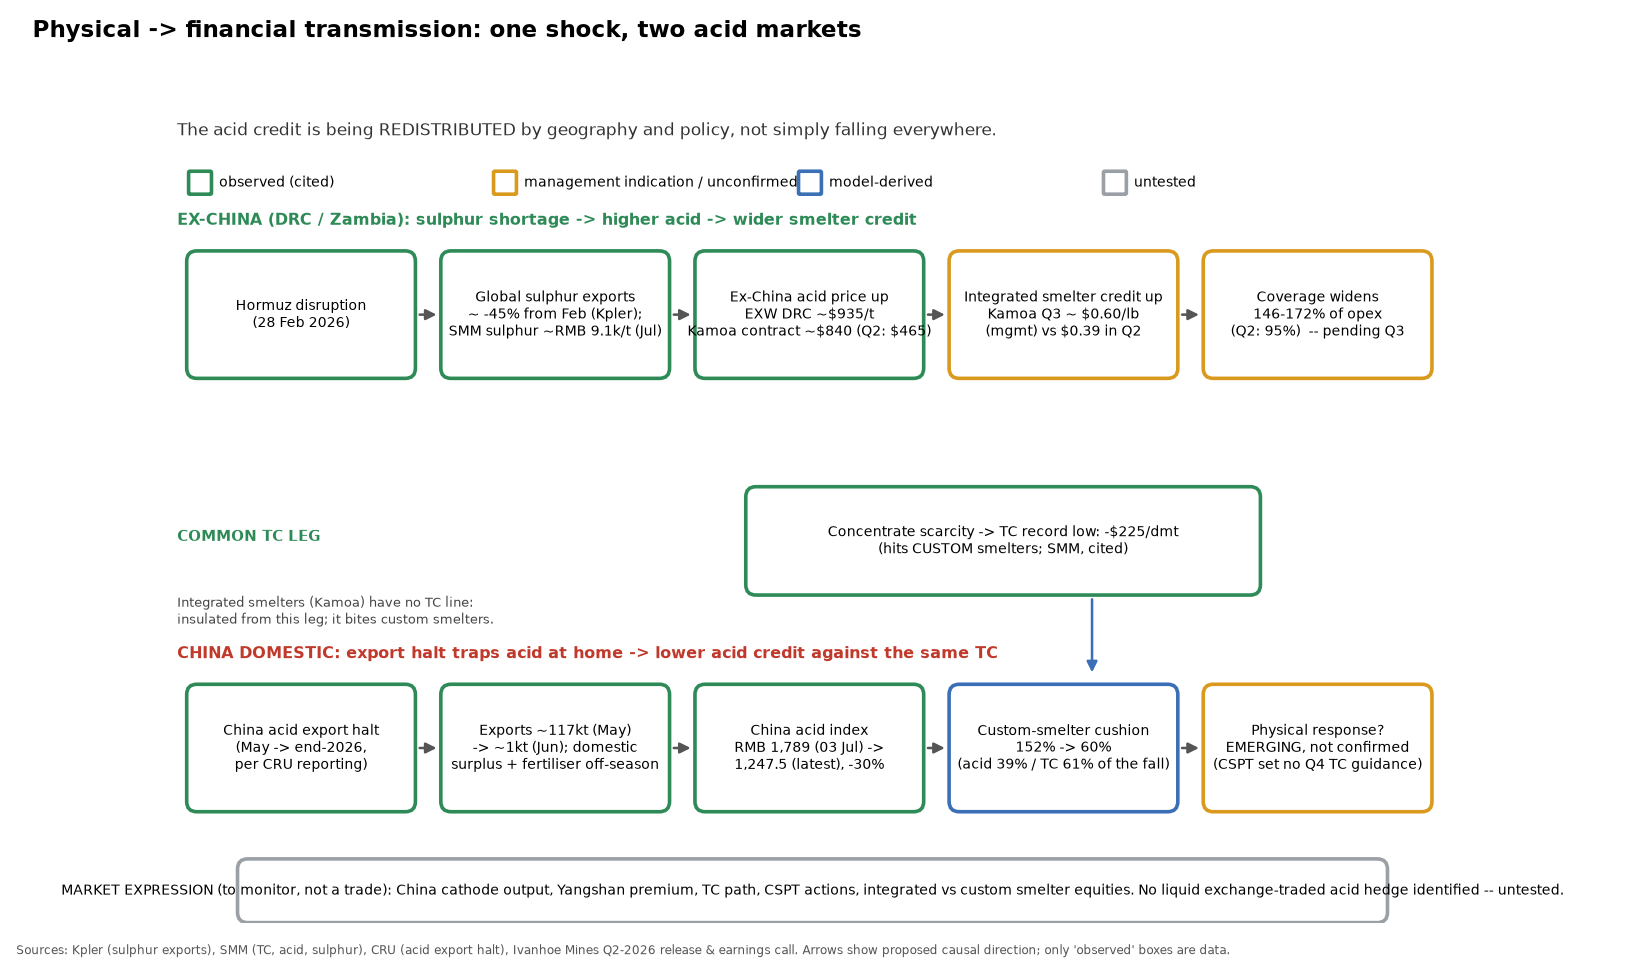
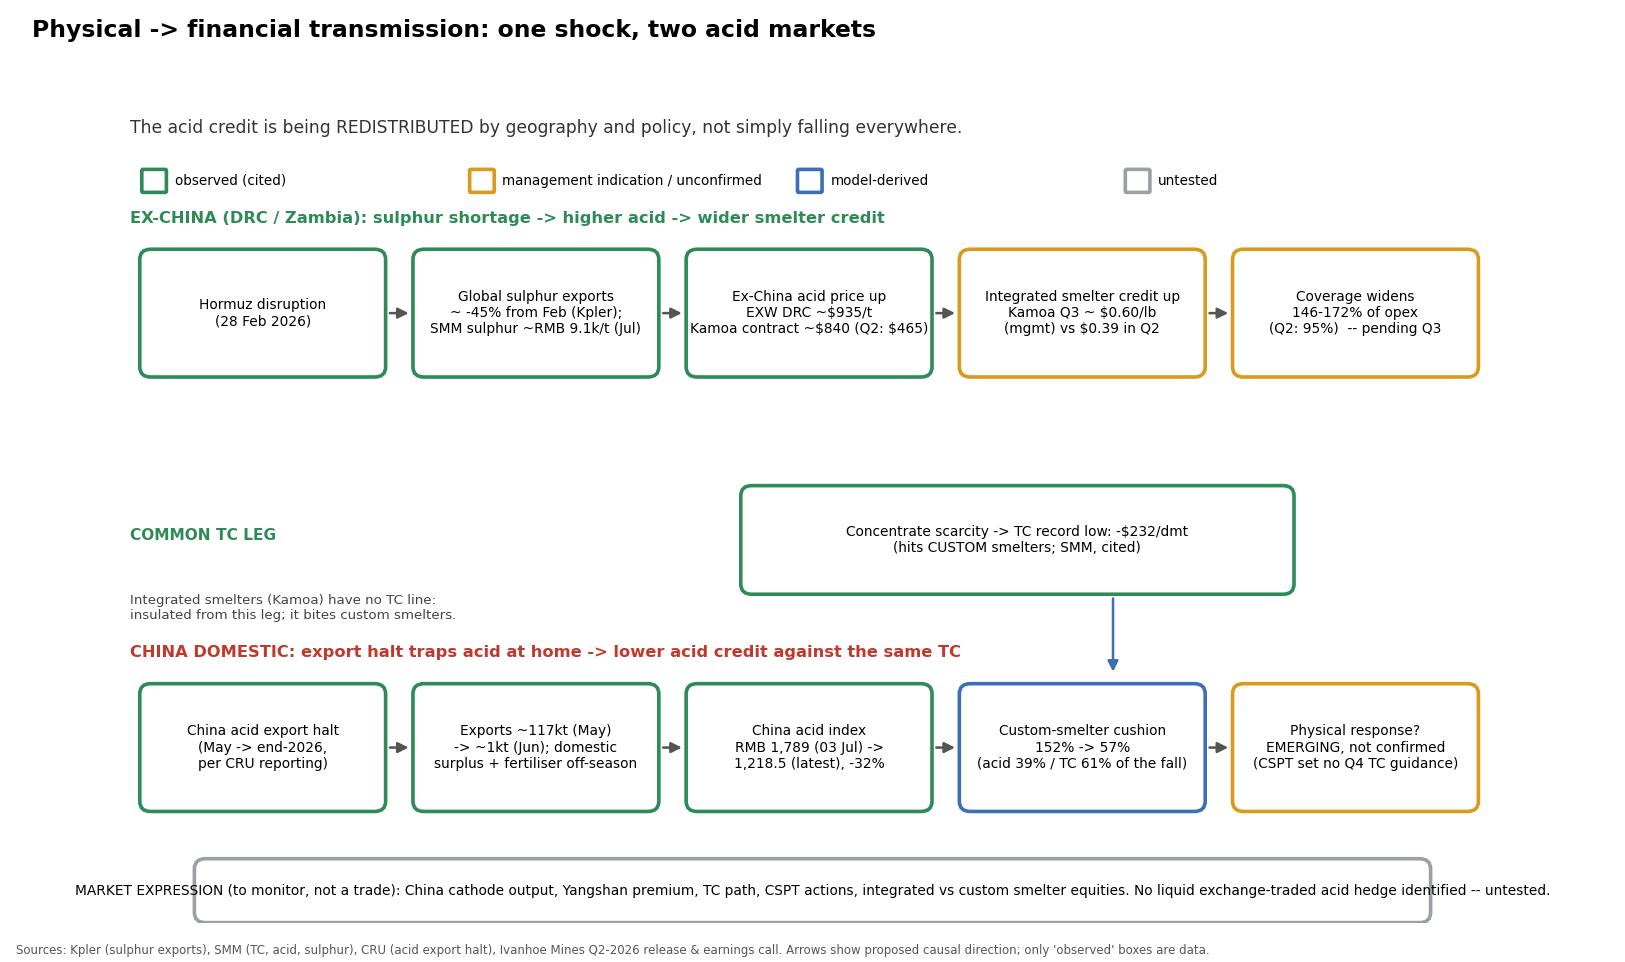
Add 30 Sep TC/acid prints; recompute cushion

diff --git a/copper_acid_data.py b/copper_acid_data.py
@@ -141,6 +141,20 @@ CU_TC_WEEKLY_RAW = [
      "all is itself new information: it signals the smelter side and "
      "miners/traders could not agree on a floor, not that -$224.53 is "
      "necessarily durable. Link: https://news.metal.com/newscontent/104133941-cspt-meeting-decides-not-to-set-q4-copper-concentrate-tc-guidance-price-imported-copper-concentrate-trading-activity-declines-smm-copper-concentrate-spot-weekly-review"),
+    ("2026-09-30", -231.68, "cited",
+     "SMM Imported Copper Concentrate Index (weekly), -$231.68/dmt, down "
+     "$7.15/dmt from -$224.53/dmt 'in the previous period' -- another new "
+     "record low (news.metal.com, 'Chile Mine Labor Risks Heat Up, "
+     "Imported Copper Concentrate TCs Continue to Fall' -- SMM Copper "
+     "Concentrate Spot Weekly Review, 2026-09-30). Added 2026-10-04. "
+     "Dated as SMM reports it: a Wednesday, again off the usual Friday "
+     "cycle, plausibly to clear the desk ahead of China's Oct National "
+     "Day holiday. Falls 5 days after the 2026-09-25 grid Friday and 2 "
+     "days before 2026-10-02; under `_interpolate_to_grid()`'s "
+     "backward-only merge_asof (3-day tolerance), this citation is NOT "
+     "within reach of 2026-09-25 (it postdates that Friday) and so "
+     "cannot overwrite it -- it snaps FORWARD onto the 2026-10-02 grid "
+     "Friday. Link: https://news.metal.com/newscontent/104142380-chile-mine-labor-risks-heat-up-imported-copper-concentrate-tcs-continue-to-fall-smm-copper-concentrate-spot-weekly-review"),
 ]
 
 # ---------------------------------------------------------------------------
@@ -232,6 +246,17 @@ CU_ACID_WEEKLY_RAW = [
      "grid-charted exactly as the 2026-09-24 TC print above -- see that "
      "row's note. Added 2026-09-25; most recent print as of this "
      "project's current data-extension pass. Link: https://news.metal.com/newscontent/104133833-waiting-for-policies-and-winter-stockpiling-the-sub-thousand-wave-spreads-to-central-china-smm-sulphuric-acid-weekly-review"),
+    ("2026-09-30", 1218.5, "cited",
+     "SMM China Copper Smelting Acid Index, RMB 1,218.5/t, down RMB "
+     "29/t or 2.3% from RMB 1,247.5/t the previous Friday -- the "
+     "THIRTEENTH consecutive weekly decline since 10 July, but a sharp "
+     "narrowing from the prior week's 7.7% drop (news.metal.com, "
+     "'Pre-holiday Fluctuations Converge, Price Center Shifts to "
+     "October', SMM Sulphuric Acid Weekly Review, 2026-09-30). Added "
+     "2026-10-04; most recent print as of this pass. Dated and "
+     "grid-charted exactly as the 2026-09-30 TC print above -- see that "
+     "row's note on the Wednesday publish date and the forward snap to "
+     "the 2026-10-02 grid Friday. Link: https://news.metal.com/newscontent/104142096-pre-holiday-fluctuations-converge-price-center-shifts-to-october-smm-sulphuric-acid-weekly-review"),
 ]
 
 
@@ -907,16 +932,16 @@ if __name__ == "__main__":
     _selfcheck_vintage_alignment_model_b()
     _tc_grid = cu_tc_weekly_interpolated()
     _acid_grid = cu_acid_weekly_interpolated()
-    assert _tc_grid.index.max() == pd.Timestamp("2026-09-25"), (
+    assert _tc_grid.index.max() == pd.Timestamp("2026-10-02"), (
         f"TC grid's last date is {_tc_grid.index.max()}, expected "
-        f"2026-09-25 (the Friday nearest the 2026-09-24 cited print)")
-    assert _acid_grid.index.max() == pd.Timestamp("2026-09-25"), (
+        f"2026-10-02 (the Friday nearest the 2026-09-30 cited print)")
+    assert _acid_grid.index.max() == pd.Timestamp("2026-10-02"), (
         f"acid grid's last date is {_acid_grid.index.max()}, expected "
-        f"2026-09-25")
-    assert abs(_tc_grid["tc_usd_dmt"].iloc[-1] - (-224.53)) < 1e-6, (
-        "TC grid's last value does not match the 2026-09-24 cited print")
-    assert abs(_acid_grid["acid_cny_t"].iloc[-1] - 1247.5) < 1e-6, (
-        "acid grid's last value does not match the 2026-09-24 cited print")
+        f"2026-10-02")
+    assert abs(_tc_grid["tc_usd_dmt"].iloc[-1] - (-231.68)) < 1e-6, (
+        "TC grid's last value does not match the 2026-09-30 cited print")
+    assert abs(_acid_grid["acid_cny_t"].iloc[-1] - 1218.5) < 1e-6, (
+        "acid grid's last value does not match the 2026-09-30 cited print")
     print("copper_acid_data.py self-checks passed:")
     print(f"  TC grid runs through   {_tc_grid.index.max().date()}  "
           f"(latest: {_tc_grid['tc_usd_dmt'].iloc[-1]:.2f} USD/dmt, "

diff --git a/STRATEGY_NOTE.md b/STRATEGY_NOTE.md
@@ -14,9 +14,9 @@ Reproduce every number and chart here with `python acid_cushion_monitor.py`. Met
 
 | | Evidence (all cited unless marked) |
 |---|---|
-| **China-domestic custom smelters are losing their cushion.** | Acid credit / \|TC\| fell from 219% (24 Apr) and 152% (3 Jul) to **60%** (24 Sep). It dropped below 100% on 21 Aug on the headline (ex-VAT) basis — anywhere from 26 Jun to 28 Aug depending on how RC and VAT are treated. TC is at a record **-$224.53/dmt**; the China acid index has fallen 12 weeks running to RMB 1,247.5/t (-30% from its 3 Jul peak). |
+| **China-domestic custom smelters are losing their cushion.** | Acid credit / \|TC\| fell from 219% (24 Apr) and 152% (3 Jul) to **57%** (30 Sep). It dropped below 100% on 21 Aug on the headline (ex-VAT) basis — anywhere from 26 Jun to 28 Aug depending on how RC and VAT are treated. TC is at a record **-$231.68/dmt**; the China acid index has fallen 13 weeks running to RMB 1,218.5/t (-32% from its 3 Jul peak), though the latest weekly decline narrowed sharply (-2.3% vs -7.7% the week before). |
 | **Ex-China integrated producers are gaining one.** | EXW DRC acid ~$935/t and Zambia ~$400/t vs ~$202/t China-domestic ex-VAT on the same date (DRC ≈ 4.6x China). Kamoa-Kakula's acid price rose from $465/t (Q2 realised) to ~$840/t (Jul/Aug contracts); management indicates the acid credit rises from $0.39/lb to ~$0.60/lb in Q3 (earnings-call summary, not a reported result). |
-| **The driver changed during the summer.** | The cushion's fall since April is **79% TC / 21% acid**. Over the last four weeks it is **67% acid / 33% TC**. The article's claim that the acid offset is now "actively widening its own decline" holds — but only for the last month. |
+| **The driver changed during the summer.** | The cushion's fall since April is **78% TC / 22% acid**. Over the last four weeks it is **62% acid / 38% TC**. The article's claim that the acid offset is now "actively widening its own decline" holds — but only for the last month. |
 | **It is not yet a confirmed physical constraint.** | SMM reports production-cut *intentions emerging* (18 Sep) and CSPT set no Q4 TC guidance (24 Sep). No named smelter has announced a dated curtailment attributed to acid. |
 
 ---

diff --git a/docs/METHODOLOGY.md b/docs/METHODOLOGY.md
@@ -58,11 +58,11 @@ Series definitions the model does **not** know: freight, handling, storage, the 
 
 ## 5. Definition sensitivity (why the level is fragile)
 
-- **Refining charge.** SMM states the convention that RC is 10% of TC (RC in cents/lb = TC in $/dmt ÷ 10). On a 25.5% concentrate with 96% payable, that adds ≈$121/dmt of drag at TC -$224.53 (≈54% on top of TC). It is a **convention, not an observed series**, so it is used only as a sensitivity.
+- **Refining charge.** SMM states the convention that RC is 10% of TC (RC in cents/lb = TC in $/dmt ÷ 10). On a 25.5% concentrate with 96% payable, that adds ≈$125/dmt of drag at TC -$231.68 (≈54% on top of TC). It is a **convention, not an observed series**, so it is used only as a sensitivity.
 - **VAT.** Checked on SMM's price pages (2 Oct 2026): the *original RMB* price includes 13% VAT and the USD series deducts it — e.g. Inner Mongolia EXW: CNY 785/t = USD 111.19 VAT-included = USD 98.40 VAT-excluded; the national index's USD page (SMM-CU-SA-001) states "13% VAT deducted for USD pricing". The national index's RMB page itself was not retrieved, so a VAT-inclusive RMB quote is **inferred from that convention**. The headline therefore deducts VAT (÷1.13); the as-quoted figure is shown as a sensitivity.
 - **Acid yield.** ±7.5% around 0.83.
 
-Result at the latest print: 60% (headline: TC only, VAT deducted) → 68% (as quoted) → 39% (TC + RC, VAT deducted) → 44% (TC + RC, as quoted); full range 36%–73% including yield. The date the cushion drops below 100% for good ranges from 26 Jun (TC + RC, VAT deducted) to 28 Aug (TC only, as quoted); the headline definition: 21 Aug.
+Result at the latest print: 57% (headline: TC only, VAT deducted) → 65% (as quoted) → 37% (TC + RC, VAT deducted) → 42% (TC + RC, as quoted); full range 34%–69% including yield. The date the cushion drops below 100% for good ranges from 26 Jun (TC + RC, VAT deducted) to 28 Aug (TC only, as quoted); the headline definition: 21 Aug.
 
 ## 6. Kamoa-Kakula
 

diff --git a/README.md b/README.md
@@ -8,10 +8,10 @@ Built on public weekly SMM data (copper TC, China acid, regional acid benchmarks
 
 ## The result in four lines
 
-- Acid credit / \|TC\| for a representative Chinese custom smelter fell from **152% (3 Jul) to 60% (24 Sep)**, with TC at a record -$224.53/dmt and China's acid index down 12 weeks running.
-- The fall was **TC-led** from April (79% TC / 21% acid) and became **acid-led** only in the last four weeks (67% acid / 33% TC).
-- It is a **regional divergence, not a global shrinking cushion**: ex-China acid (EXW DRC ~$935/t) is ~4.6x China-domestic ex-VAT, and Kamoa-Kakula's coverage is indicated to *widen* in Q3. Kamoa's Q1→Q2 dip is not an acid-price effect (realised price flat at $467 → $465/t; Q1 opex was partly capitalised).
-- The **level** of the cushion is definition-sensitive (36%–73% across acid yield, refining-charge and VAT basis); the **direction** is not.
+- Acid credit / \|TC\| for a representative Chinese custom smelter fell from **152% (3 Jul) to 57% (30 Sep)**, with TC at a record -$231.68/dmt and China's acid index down 13 weeks running (though the latest weekly decline narrowed to -2.3% from -7.7%).
+- The fall was **TC-led** from April (78% TC / 22% acid) and became **acid-led** in the last four weeks (62% acid / 38% TC).
+- It is a **regional divergence, not a global shrinking cushion**: ex-China acid (EXW DRC ~$935/t, 4 Sep -- stale, flat 5+ weeks before that) is ~4.6x China-domestic ex-VAT, and Kamoa-Kakula's coverage is indicated to *widen* in Q3 (mgmt: 146%-172% vs Q2's 95%). Kamoa's Q1→Q2 dip is not an acid-price effect (realised price flat at $467 → $465/t; Q1 opex was partly capitalised).
+- The **level** of the cushion is definition-sensitive (34%–69% across acid yield, refining-charge and VAT basis); the **direction** is not.
 
 | | |
 |---|---|
